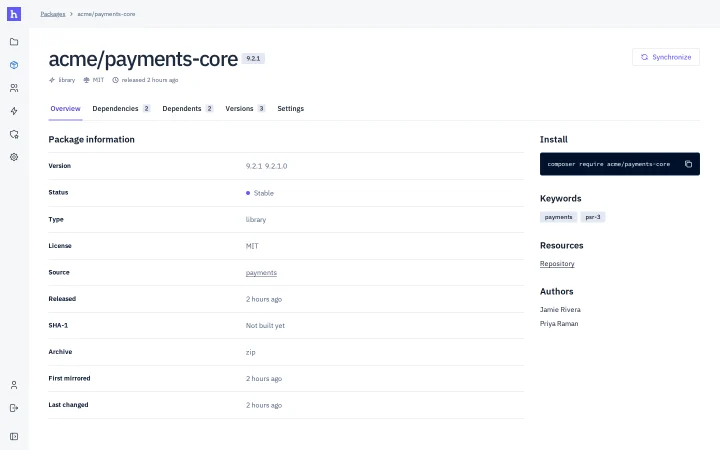
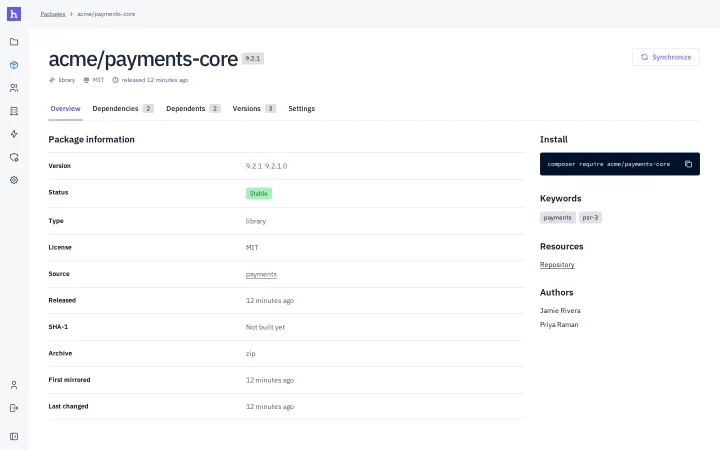
feat(spaces): retake screenshots for the new look and add spaces

diff --git a/index.html b/index.html
@@ -72,6 +72,7 @@
       <symbol id="eye-off" viewBox="0 0 24 24"><path fill="none" stroke="currentColor" stroke-linecap="round" stroke-linejoin="round" stroke-width="1.5" d="M10.585 10.587a2 2 0 0 0 2.829 2.828M16.681 16.673A8.7 8.7 0 0 1 12 18q-5.4 0-9-6q1.908-3.18 4.32-4.674m2.86-1.146A9 9 0 0 1 12 6q5.4 0 9 6q-1 1.665-2.138 2.87M3 3l18 18"/></symbol>
       <symbol id="archive" viewBox="0 0 24 24"><path fill="none" stroke="currentColor" stroke-linecap="round" stroke-linejoin="round" stroke-width="1.5" d="M3 6a2 2 0 0 1 2-2h14a2 2 0 0 1 2 2a2 2 0 0 1-2 2H5a2 2 0 0 1-2-2m2 2v10a2 2 0 0 0 2 2h10a2 2 0 0 0 2-2V8m-9 4h4"/></symbol>
       <symbol id="user-shield" viewBox="0 0 24 24"><path fill="none" stroke="currentColor" stroke-linecap="round" stroke-linejoin="round" stroke-width="1.5" d="M6 21v-2a4 4 0 0 1 4-4h2m10 1c0 4-2.5 6-3.5 6S15 20 15 16c1 0 2.5-.5 3.5-1.5c1 1 2.5 1.5 3.5 1.5M8 7a4 4 0 1 0 8 0a4 4 0 0 0-8 0"/></symbol>
+      <symbol id="building" viewBox="0 0 24 24"><path fill="none" stroke="currentColor" stroke-linecap="round" stroke-linejoin="round" stroke-width="1.5" d="M3 21h18M9 8h1m-1 4h1m-1 4h1m4-8h1m-1 4h1m-1 4h1M5 21V5a2 2 0 0 1 2-2h10a2 2 0 0 1 2 2v16"/></symbol>
       <symbol id="menu" viewBox="0 0 24 24"><path fill="none" stroke="currentColor" stroke-linecap="round" stroke-width="1.5" d="M4 7h16M4 12h16M4 17h16"/></symbol>
       <symbol id="x" viewBox="0 0 24 24"><path fill="none" stroke="currentColor" stroke-linecap="round" stroke-width="1.5" d="M18 6L6 18M6 6l12 12"/></symbol>
       <symbol id="arrow-left" viewBox="0 0 24 24"><path fill="none" stroke="currentColor" stroke-linecap="round" stroke-linejoin="round" stroke-width="1.75" d="M19 12H5m6 6l-6-6m6-6l-6 6"/></symbol>
@@ -128,7 +129,7 @@
           <div class="slider" data-slider>
             <div class="frame">
               <ul class="slides" tabindex="0" aria-label="Screenshots of the haymon interface">
-              <li class="slide" id="screen-packages" aria-label="1 of 6: Packages">
+              <li class="slide" id="screen-packages" aria-label="1 of 7: Packages">
                 <div class="window">
                   <div class="window-bar" aria-hidden="true">
                     <span class="window-dots"><i></i><i></i><i></i></span>
@@ -143,7 +144,7 @@
                   />
                 </div>
               </li>
-              <li class="slide" id="screen-package" aria-label="2 of 6: Package details">
+              <li class="slide" id="screen-package" aria-label="2 of 7: Package details">
                 <div class="window">
                   <div class="window-bar" aria-hidden="true">
                     <span class="window-dots"><i></i><i></i><i></i></span>
@@ -158,7 +159,7 @@
                   />
                 </div>
               </li>
-              <li class="slide" id="screen-sources" aria-label="3 of 6: Sources">
+              <li class="slide" id="screen-sources" aria-label="3 of 7: Sources">
                 <div class="window">
                   <div class="window-bar" aria-hidden="true">
                     <span class="window-dots"><i></i><i></i><i></i></span>
@@ -173,7 +174,7 @@
                   />
                 </div>
               </li>
-              <li class="slide" id="screen-source" aria-label="4 of 6: Source details">
+              <li class="slide" id="screen-source" aria-label="4 of 7: Source details">
                 <div class="window">
                   <div class="window-bar" aria-hidden="true">
                     <span class="window-dots"><i></i><i></i><i></i></span>
@@ -188,7 +189,22 @@
                   />
                 </div>
               </li>
-              <li class="slide" id="screen-users" aria-label="5 of 6: Users">
+              <li class="slide" id="screen-spaces" aria-label="5 of 7: Spaces">
+                <div class="window">
+                  <div class="window-bar" aria-hidden="true">
+                    <span class="window-dots"><i></i><i></i><i></i></span>
+                    <span class="window-url">packages.acme.dev/spaces</span>
+                  </div>
+                  <img
+                    src="assets/screens/spaces-1440.webp"
+                    srcset="assets/screens/spaces-720.webp 720w, assets/screens/spaces-1440.webp 1440w, assets/screens/spaces.webp 2880w"
+                    sizes="(min-width: 1440px) 1300px, (min-width: 1280px) calc(100vw - 136px), (min-width: 768px) calc(100vw - 72px), calc(100vw - 40px)"
+                    width="1440" height="900" loading="lazy" decoding="async"
+                    alt="The haymon spaces overview"
+                  />
+                </div>
+              </li>
+              <li class="slide" id="screen-users" aria-label="6 of 7: Users">
                 <div class="window">
                   <div class="window-bar" aria-hidden="true">
                     <span class="window-dots"><i></i><i></i><i></i></span>
@@ -203,7 +219,7 @@
                   />
                 </div>
               </li>
-              <li class="slide" id="screen-credentials" aria-label="6 of 6: Credentials">
+              <li class="slide" id="screen-credentials" aria-label="7 of 7: Credentials">
                 <div class="window">
                   <div class="window-bar" aria-hidden="true">
                     <span class="window-dots"><i></i><i></i><i></i></span>
@@ -239,9 +255,13 @@
               <p class="slider-title">Source details</p>
               <p>Each source shows the packages it supplies, its full catalog and its settings, from the repository URL to the credential it uses.</p>
             </div>
+            <div class="slider-caption" data-for="screen-spaces" hidden>
+              <p class="slider-title">Spaces</p>
+              <p>Give each team or customer its own address and tokens. A space serves every package or only the ones on its list, and its tokens open no other space.</p>
+            </div>
             <div class="slider-caption" data-for="screen-users" hidden>
               <p class="slider-title">Users</p>
-              <p>Invite teammates, make them administrators or members, and deactivate access when someone leaves. Last-active times show who still uses the registry.</p>
+              <p>Invite teammates, make them owners, administrators or users, and deactivate access when someone leaves. Last-active times show who still uses the registry.</p>
             </div>
             <div class="slider-caption" data-for="screen-credentials" hidden>
               <p class="slider-title">Credentials</p>
@@ -307,8 +327,17 @@
               <span class="control-icon"><svg width="20" height="20" aria-hidden="true"><use href="#user-shield" /></svg></span>
               <h3>Clear roles</h3>
               <p>
-                Only administrators add sources, credentials and users. Everyone
-                else browses packages and installs with their own token.
+                Only administrators add sources, credentials, users and spaces.
+                Everyone else browses packages and installs with their own token.
+              </p>
+            </li>
+            <li class="card">
+              <span class="control-icon"><svg width="20" height="20" aria-hidden="true"><use href="#building" /></svg></span>
+              <h3>Separate spaces</h3>
+              <p>
+                Give each team or customer its own address and tokens, serving
+                every package or only a list you choose. A token for one space
+                opens no other.
               </p>
             </li>
           </ul>

diff --git a/index.html.md b/index.html.md
@@ -8,7 +8,8 @@ Developers and AI agents add dependencies faster than anyone can review them. ha
 - **Package details**: Versions, dependencies and dependents, license and source for each package, with the install command ready to copy and a one-click sync.
 - **Sources**: Public registries and private git repositories, in the order haymon asks them. When two sources offer the same release, priority decides which one supplies it.
 - **Source details**: Each source shows the packages it supplies, its full catalog and its settings, from the repository URL to the credential it uses.
-- **Users**: Invite teammates, make them administrators or members, and deactivate access when someone leaves. Last-active times show who still uses the registry.
+- **Spaces**: Give each team or customer its own address and tokens. A space serves every package or only the ones on its list, and its tokens open no other space.
+- **Users**: Invite teammates, make them owners, administrators or users, and deactivate access when someone leaves. Last-active times show who still uses the registry.
 - **Credentials**: Tokens, SSH keys and passwords for your private repositories, kept in one place and picked per source, with a count of where each one is used.
 
 ## Control: nothing reaches your builds that you didn't let in
@@ -17,7 +18,8 @@ Developers and AI agents add dependencies faster than anyone can review them. ha
 - **Versions you allow**: Set a version range on a package, and releases outside it are never mirrored and can never be downloaded.
 - **Private names stay private**: A package from your own source is only ever fetched from it. Public registries are never asked, so a squatter can't slip in.
 - **Copies on your disk**: Archives are served from your server once built, each with its checksum recorded.
-- **Clear roles**: Only administrators add sources, credentials and users. Everyone else browses packages and installs with their own token.
+- **Clear roles**: Only administrators add sources, credentials, users and spaces. Everyone else browses packages and installs with their own token.
+- **Separate spaces**: Give each team or customer its own address and tokens, serving every package or only a list you choose. A token for one space opens no other.
 
 ## Ecosystems: a truly universal home for all your packages
 
